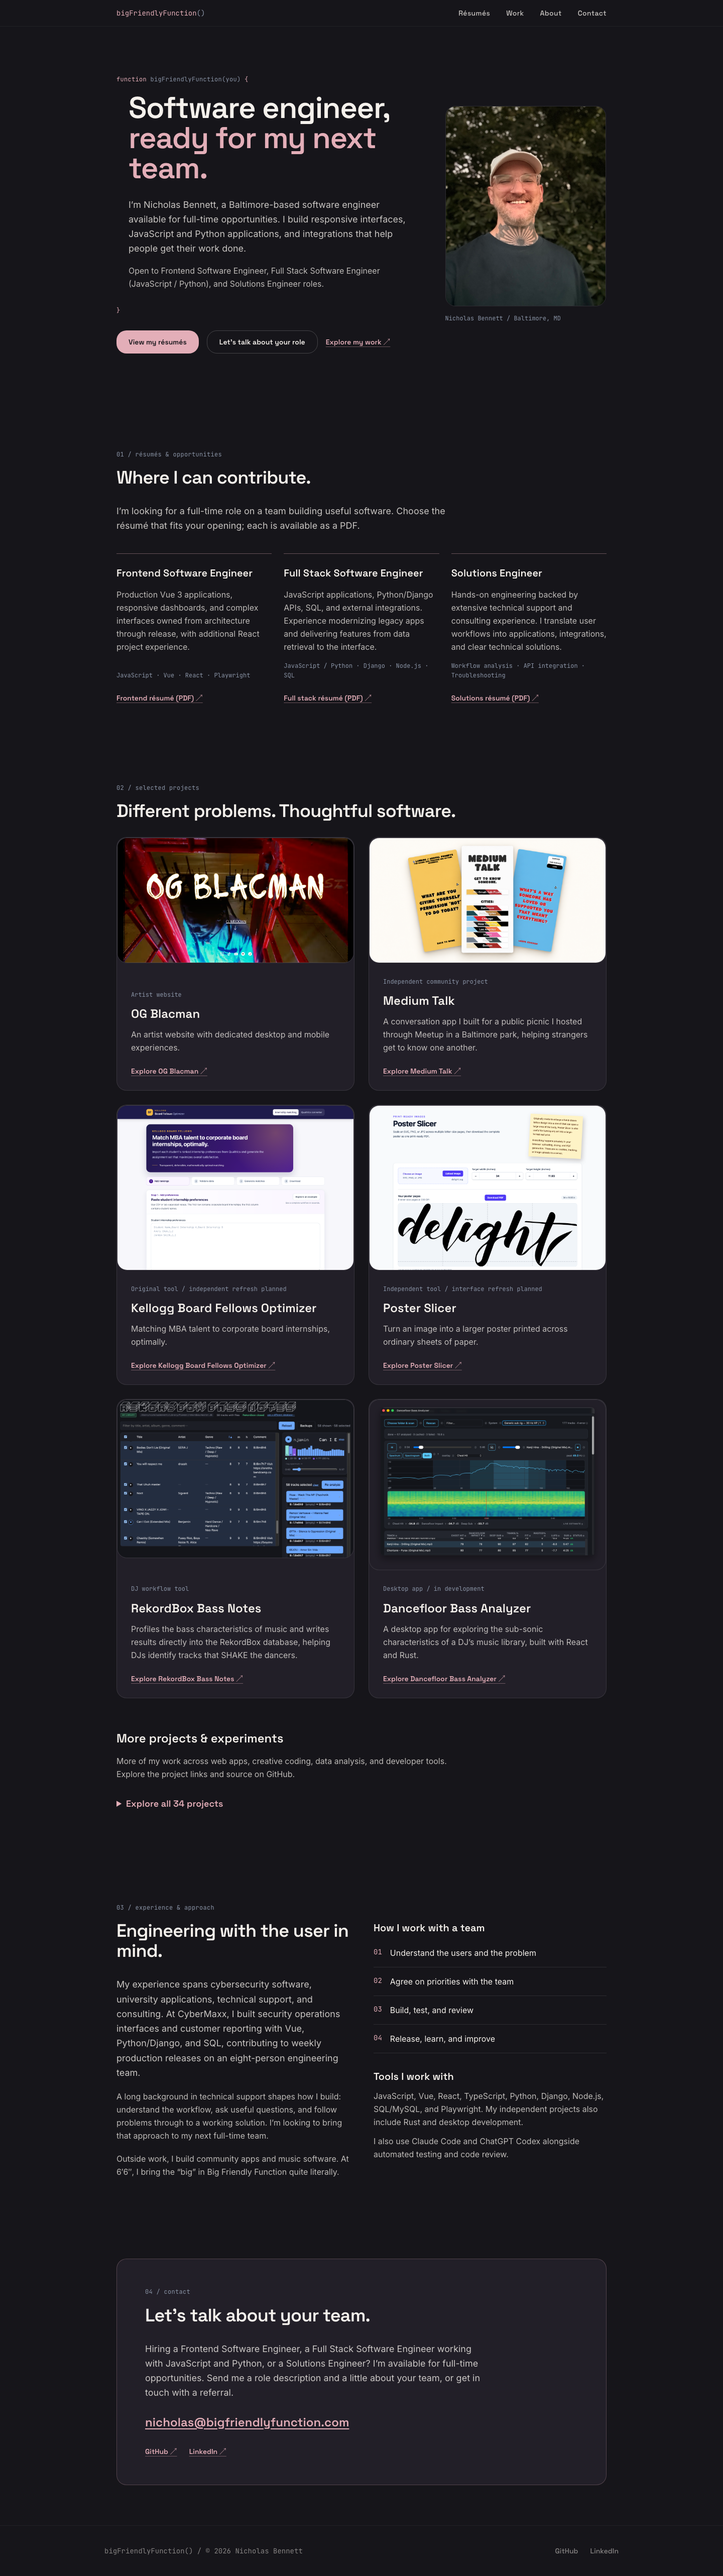
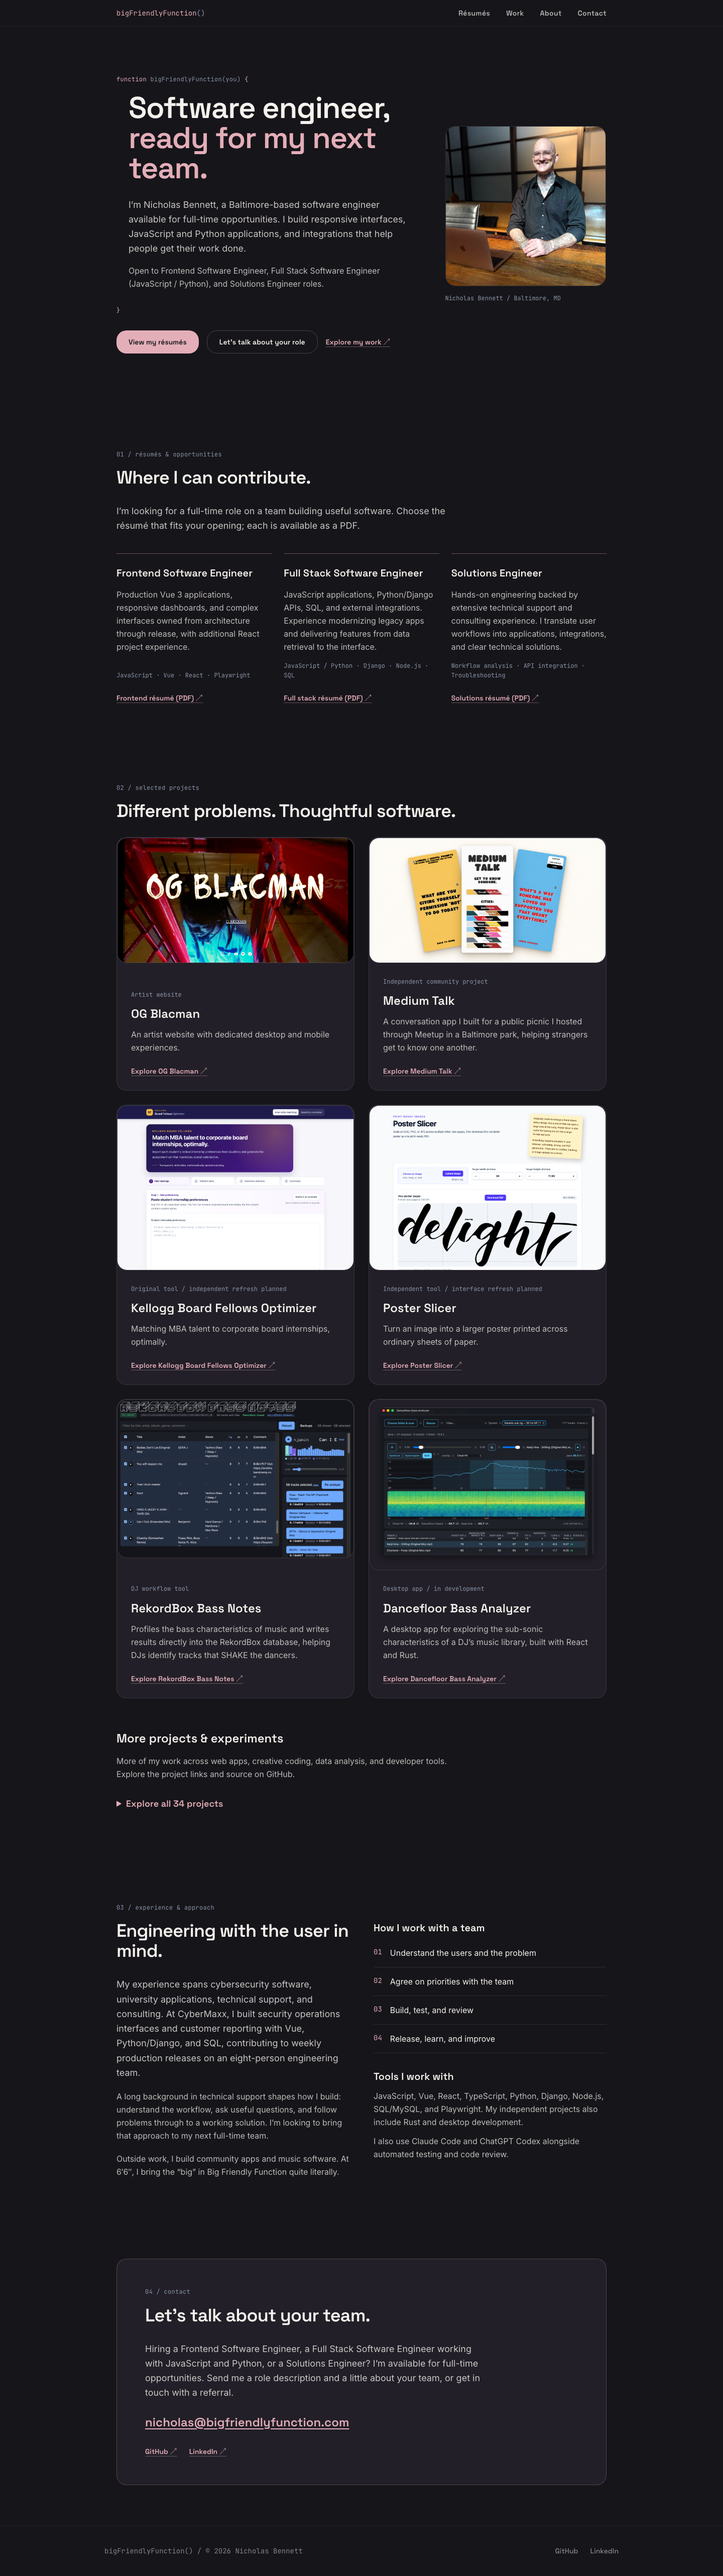
feat: use laptop headshot for homepage and social previews

Changed region(s): [[0.5938, 0.0312, 0.8438, 0.1248]]

diff --git a/src/components/Hero.tsx b/src/components/Hero.tsx
@@ -12,8 +12,7 @@ export default function Hero() {
         <div className="mt-8 flex flex-wrap gap-4"><a href="#resumes" className="button-primary">View my résumés</a><a href="#contact" className="button-secondary">Let’s talk about your role</a><a href="#portfolio" className="text-link self-center">Explore my work ↗</a></div>
       </div>
       <figure className="mx-auto w-full max-w-xs">
-        {/* TODO_MEDIA: Replace with a new coworking-office portrait, preserving the existing photograph until supplied. */}
-        <img src="/images/portrait.jpg" alt="Nicholas Bennett" className="h-auto w-full rounded-xl2 border border-white/10" />
+        <img src="/images/portrait.jpg" alt="Nicholas Bennett seated at a table with a laptop" width="1000" height="998" className="h-auto w-full rounded-xl2 border border-white/10" />
         <figcaption className="mt-4 font-mono text-xs text-steel">Nicholas Bennett / Baltimore, MD</figcaption>
       </figure>
     </div>

diff --git a/scripts/check-site.py b/scripts/check-site.py
@@ -9,6 +9,7 @@ class Page(HTMLParser):
         super().__init__()
         self.ids, self.links, self.images, self.headings = set(), [], [], []
         self.text = []
+        self.meta = {}
         self.title, self.description, self.canonical, self.robots = '', '', '', ''
         self.in_title = False
         self.anchor_depth = 0
@@ -27,6 +28,7 @@ class Page(HTMLParser):
         if tag in ('h1', 'h2', 'h3', 'h4', 'h5', 'h6'):
             self.headings.append(int(tag[1]))
         if tag == 'title': self.in_title = True
+        if tag == 'meta': self.meta[a.get('property') or a.get('name')] = a.get('content', '')
         if tag == 'meta' and a.get('name') == 'description': self.description = a['content']
         if tag == 'meta' and a.get('name') == 'robots': self.robots = a['content']
         if tag == 'link' and a.get('rel') == 'canonical': self.canonical = a['href']
@@ -49,6 +51,11 @@ for route, page in pages.items():
     assert page.headings.count(1) == 1 and page.headings[0] == 1, route
     assert all(b <= a + 1 for a, b in zip(page.headings, page.headings[1:])), route
     assert 'main-content' in page.ids
+    assert page.meta['og:image'] == 'https://bigfriendlyfunction.com/images/portrait.jpg'
+    assert page.meta['twitter:image'] == page.meta['og:image']
+    assert page.meta['twitter:card'] == 'summary'
+    assert page.meta['og:image:width'] == '1000' and page.meta['og:image:height'] == '998'
+    assert page.meta['og:image:alt'] and page.meta['twitter:image:alt'] == page.meta['og:image:alt']
     for href in page.links:
         assert href, f'Empty link: {route}'
         assert 'wa.me' not in href
@@ -83,6 +90,7 @@ for project in linked_projects:
 assert 'mailto:nicholas@bigfriendlyfunction.com' in pages['/'].links
 assert '/#resumes' in pages['/'].links
 assert 'full-time' in pages['/'].description
+assert any(image['src'] == '/images/portrait.jpg' and image['alt'] == pages['/'].meta['og:image:alt'] for image in pages['/'].images)
 assert {href for href in pages['/'].links if href.endswith('.pdf')} == {
     f'/resumes/nicholas-bennett-{role}.pdf'
     for role in ('frontend-software-engineer', 'full-stack-software-engineer', 'solutions-engineer')
@@ -95,4 +103,4 @@ assert 'mailto:nicholasbennett.work@gmail.com' in restaurant.links
 assert 'tel:+12244324264' in restaurant.links
 for path in root.rglob('*.html'):
     assert not any(urlsplit(link).path.rstrip('/') == '/restaurants' for link in Page(path).links), f'Unlisted page linked from {path}'
-print(f'PASS: {len(routes)} static routes including unlisted/noindex restaurant page, 6 gallery links, {len(linked_projects)} additional projects with descriptions and website/source links, no duplicate repositories, 4 résumé PDFs, full-time availability metadata, all local anchors, unique titles, descriptions, canonical URLs, heading hierarchy, contact links, images, and no nested links.')
+print(f'PASS: {len(routes)} static routes including unlisted/noindex restaurant page, 6 gallery links, {len(linked_projects)} additional projects with descriptions and website/source links, no duplicate repositories, 4 résumé PDFs, full-time availability metadata, homepage portrait and social preview metadata, all local anchors, unique titles, descriptions, canonical URLs, heading hierarchy, contact links, images, and no nested links.')

diff --git a/README.md b/README.md
@@ -84,7 +84,7 @@ Edit `src/data/linked-projects.json` to maintain these entries. This is a static
 3. Set `src` to the public URL, such as `/images/projects/og-blacman/desktop-hero.png`, and supply accurate `alt` text and a factual caption.
 4. Build and regenerate the README screenshot.
 
-Keep `src: null` until an asset exists. A nonexistent local file also renders a labeled placeholder. Images preserve their aspect ratios. See [CONTENT_TODO.md](CONTENT_TODO.md) for missing screenshots, contribution details, credits, the future coworking portrait, and optional recordings. The unverified WhatsApp destination is omitted pending a verified replacement.
+Keep `src: null` until an asset exists. A nonexistent local file also renders a labeled placeholder. Images preserve their aspect ratios. The homepage uses the supplied laptop headshot at `public/images/portrait.jpg`; the shared layout also uses it for Open Graph and Twitter preview images. See [CONTENT_TODO.md](CONTENT_TODO.md) for missing screenshots, contribution details, credits, and optional recordings. The unverified WhatsApp destination is omitted pending a verified replacement.
 
 ## Screenshot and Git workflow
 

diff --git a/CONTENT_TODO.md b/CONTENT_TODO.md
@@ -8,11 +8,9 @@ For each media item, place the approved image at `public` + `assetPath`, set `sr
 
 1. Real project screenshots, beginning with OG Blacman and Medium Talk.
 2. Confirm contribution/credits and the project details listed below, especially the original Kellogg workflow.
-3. New coworking-office portrait when available; the current real photograph remains.
 
 | Page / field | Intended asset path | What to supply |
 | --- | --- | --- |
-| Homepage / Hero portrait | `public/images/portrait.jpg` | New coworking-office portrait. |
 | Homepage / Contact | None | Verified WhatsApp destination, only if this option should return. Existing handle was unverified and omitted. |
 | OG Blacman / media: Desktop hero screenshot | `public/images/projects/og-blacman/desktop-hero.png` | Show the real desktop composition and artist identity. |
 | OG Blacman / media: Phone layout and music player | `public/images/projects/og-blacman/phone-player.png` | Show how the mobile composition presents music and playback controls. |
